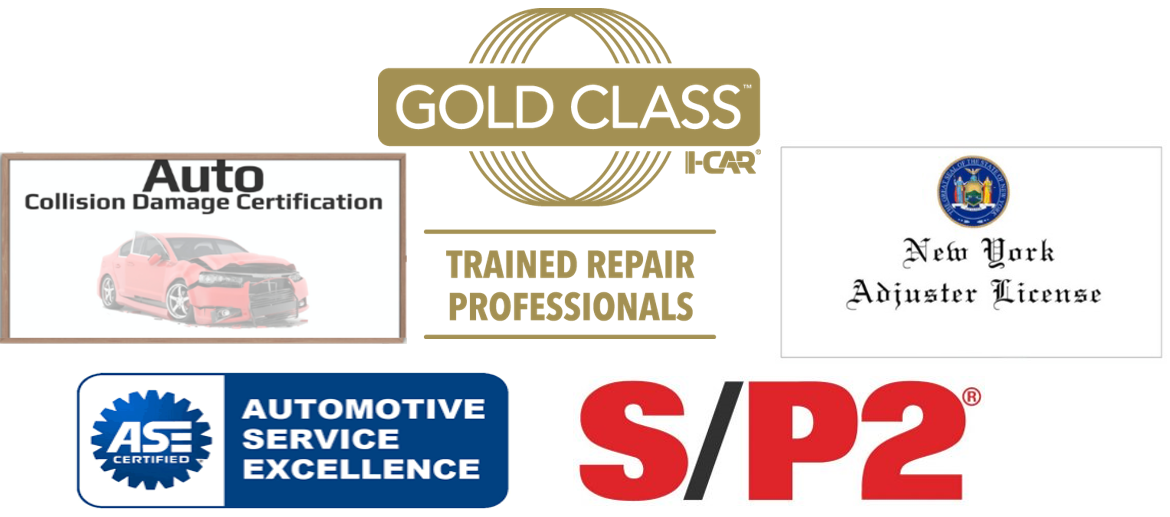
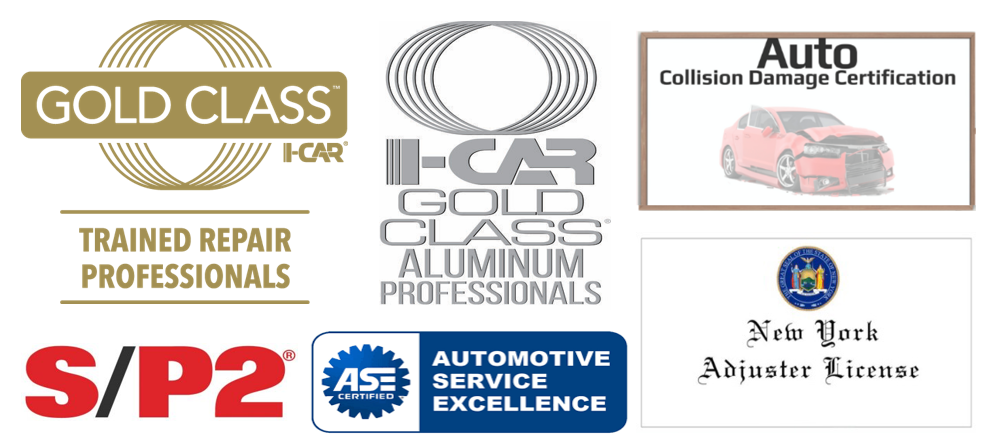
update compare imgs

diff --git a/src/components/modules/BeforeAndAfter.js b/src/components/modules/BeforeAndAfter.js
@@ -2,12 +2,22 @@ import { useEffect } from "react";
 import Carousel from "../Carousel";
 import compare1 from "../../assets/compare1.png";
 import compare2 from "../../assets/compare2.png";
-import compare3 from "../../assets/compare3.jpg";
+import compare3 from "../../assets/compare3.png";
 import compare4 from "../../assets/compare4.png";
 import compare5 from "../../assets/compare5.png";
+import compare6 from "../../assets/compare6.png";
+import compare7 from "../../assets/compare7.png";
 import BackToHomeButton from "./BackToHomeButton";
 import { BackToHomeIcon } from "./BackToHomeButton";
-const imgsToCompare = [compare1, compare2, compare3, compare4, compare5];
+const imgsToCompare = [
+  compare1,
+  compare2,
+  compare3,
+  compare4,
+  compare5,
+  compare6,
+  compare7,
+];
 
 export default function BeforeAndAfter() {
   useEffect(() => {

diff --git a/src/components/Carousel.js b/src/components/Carousel.js
@@ -33,7 +33,6 @@ export default function Carousel({ content, imgs }) {
                 alt="illustration"
                 style={{
                   width: "100%",
-                  //  height: "600px"
                 }}
               />
             </div>
